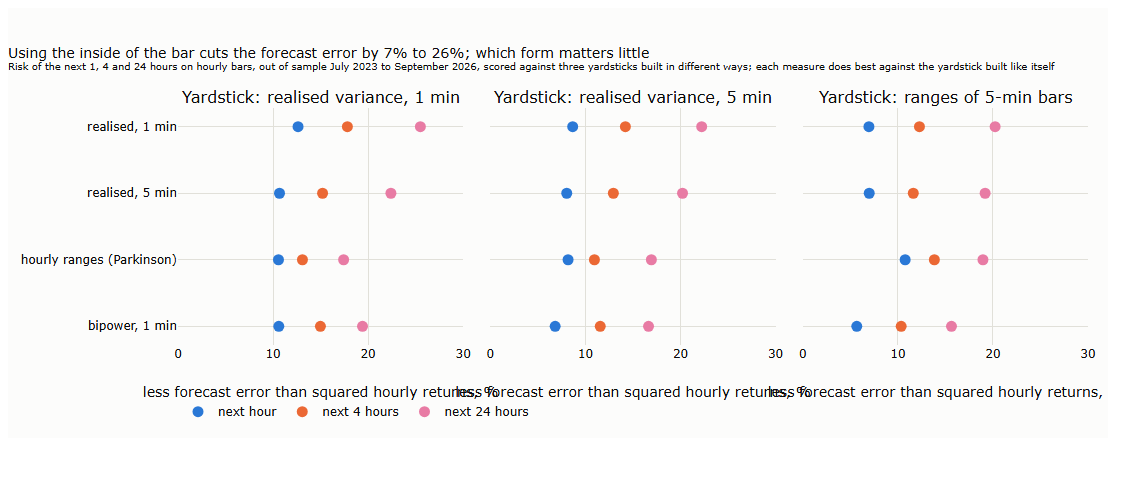
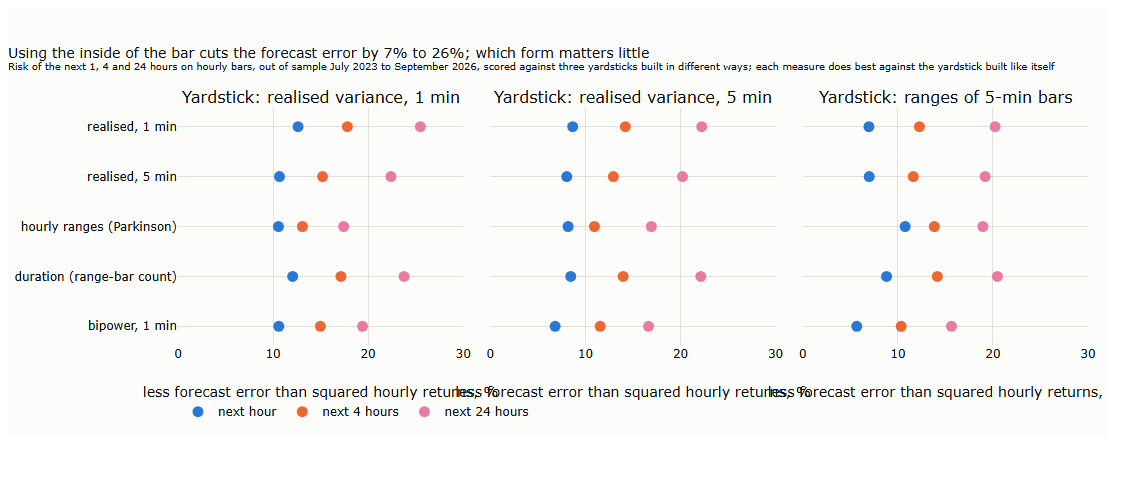
Lecture 14 §6: the duration measure, its bias taken apart, and our results against the literature

diff --git a/lectures/14-volatility-and-the-path/lecture.md b/lectures/14-volatility-and-the-path/lecture.md
@@ -213,7 +213,36 @@ On price clocks the rule holds almost exactly. On dollar bars it underestimates 
 
 **Precision.** At the same number of bars, a clock that spreads the day's variance evenly over its bars measures it more precisely: one day's variance has a sampling error of 26% on 30-minute bars, 19% on dollar bars and 15% on range bars. Sampling in trading time rather than calendar time is known to reduce the error of realised variance (Oomen, 2006). But the number of samples matters more than the clock: one-minute time bars, 1,440 a day, give 6%. The clock matters for precision when a strategy can only measure risk on its own bars.
 
-**Measures made for price clocks.** On a range clock, the natural measures of risk are the count of bars and the time they take. For a random walk, the expected time for the price to leave a band of ±h is h²/σ², so volatility can be read from how long the price takes to move a set distance. Such duration-based estimators are among the most precise in theory (Andersen, Dobrev and Schaumburg, 2008, a working paper) and have forecast better than realised variance in a recent study (Hong, Nolte, Taylor and Zhao, 2023). The directional-change school counts how often the price reverses by a set amount and reads volatility from that count (Glattfelder, Dupuis and Olsen, 2011). Neither is in common use, and neither has been compared with realised variance on crypto data; they are named here as candidates for readers to test.
+**A measure made for price clocks: the duration.** On a range clock, risk can be read from how fast the bars come. For a random walk, a range bar (high minus low reaches R) takes on average R²/(2σ²), so a day's variance is about the number of range bars times R²/2 (Andersen, Dobrev and Schaumburg, 2008, a working paper; Nolte, Taylor and Zhao add half a bar for the bar left open at the end of the day). The range clock of Lecture 13 therefore yields a volatility measure for free: a count of events, without squaring any return.
+
+On our sample it is precise, as tight as realised variance at five minutes (0.71 to 0.99 times the one-minute value on four days in five), and in the forecasting test of §5.3 it comes first or close behind against every yardstick: the only measure without a home advantage, because it is built from something else, a count.
+
+It runs low, by 14%, and the bias can be taken apart. First, test the measure where the truth is known: on a simulated random walk with a set variance, run exactly the same clock. Then add the market's features one at a time and see which brings the simulation close to the tape:
+
+| Simulated market, one price per second, about 48 bars a day | Estimate ÷ true variance |
+|---|---|
+| A random walk | 0.92 |
+| + busy and quiet hours | 0.92 |
+| + fat-tailed moves | 0.90 |
+| + a component that turns back over minutes, and the clock's averaged price | 0.82 |
+| BTCUSDT | 0.86 |
+
+*Our simulation; the market's features added one at a time.*
+
+About a third of the bias belongs to the method: a clock that looks at the price once a second misses ranges completed and reversed between two looks. It has a textbook correction, a slightly larger threshold in the formula, R plus 1.165 times the typical one-second move (our check of the barrier correction of Broadie, Glasserman and Kou, 1997, for ranges), which lifts the estimate from 0.86 to 0.91. The rest belongs to the market: bitcoin's turning back over minutes (§3) completes fewer ranges than a random walk would. The remaining bias is stable across volatility regimes and drifts only slowly over the years, so one constant per setting corrects it. Directional-change counts (Glattfelder, Dupuis and Olsen, 2011) rest on the same idea with a different event.
+
+**Our results and the literature.**
+
+| The literature | Our result on BTCUSDT | |
+|---|---|---|
+| Intraday measures forecast volatility better than daily returns (Andersen, Bollerslev, Diebold and Labys, 2003, on currencies) | 7% to 26% less forecast error than the bar's own returns | in line |
+| Forecasts are ranked correctly only against a target without bias of its own (Patton, 2011) | Each measure wins against the yardstick built like itself | in line: yardsticks built differently carry different biases |
+| On stocks, realised variance falls as sampling gets finer, because the noise moves against the price (Hansen and Lunde, 2006) | Lower at one second than at one minute | in line |
+| Bitcoin reverses over one to four hours (De Nicola, 2021); its autocorrelation turns negative at five to ten minutes (Takaishi, 2018) | The variance ratio stays below 1 from minutes to a day (§3) | in line; on explosive days we find runs instead |
+| On currencies, stocks and bonds, jumps say little about future volatility (Andersen, Bollerslev and Diebold, 2007) | On bitcoin, the next day's risk weighs yesterday's jumps more | different, as in bitcoin studies: jumps cluster (Scaillet, Treccani and Trevisan, 2020) and help forecast its volatility (Shen, Urquhart and Wang, 2020) |
+| Duration estimators are precise, biased down by discrete sampling, and correctable (Andersen, Dobrev and Schaumburg, 2008; Nolte, Taylor and Zhao) | All three, with a bias of the predicted size | in line |
+
+Where our methods are established, the results agree with the literature; where bitcoin differs from stocks, studies of bitcoin point the same way. No published study reports bitcoin's variance ratio at these horizons; ours is a result on this sample, for readers to test on others.
 
 **Key message.** On any clock, a day's risk is the number of bars times the risk per bar. On BTCUSDT, price clocks put most of the risk into the clock's speed, dollar bars split it, and the square-root rule needs the expected bar count and fails by 15% where count and size move together. Risk per bar suits per-trade decisions such as stops; risk per period needs both a forecast of activity and a forecast of risk per bar.
 
